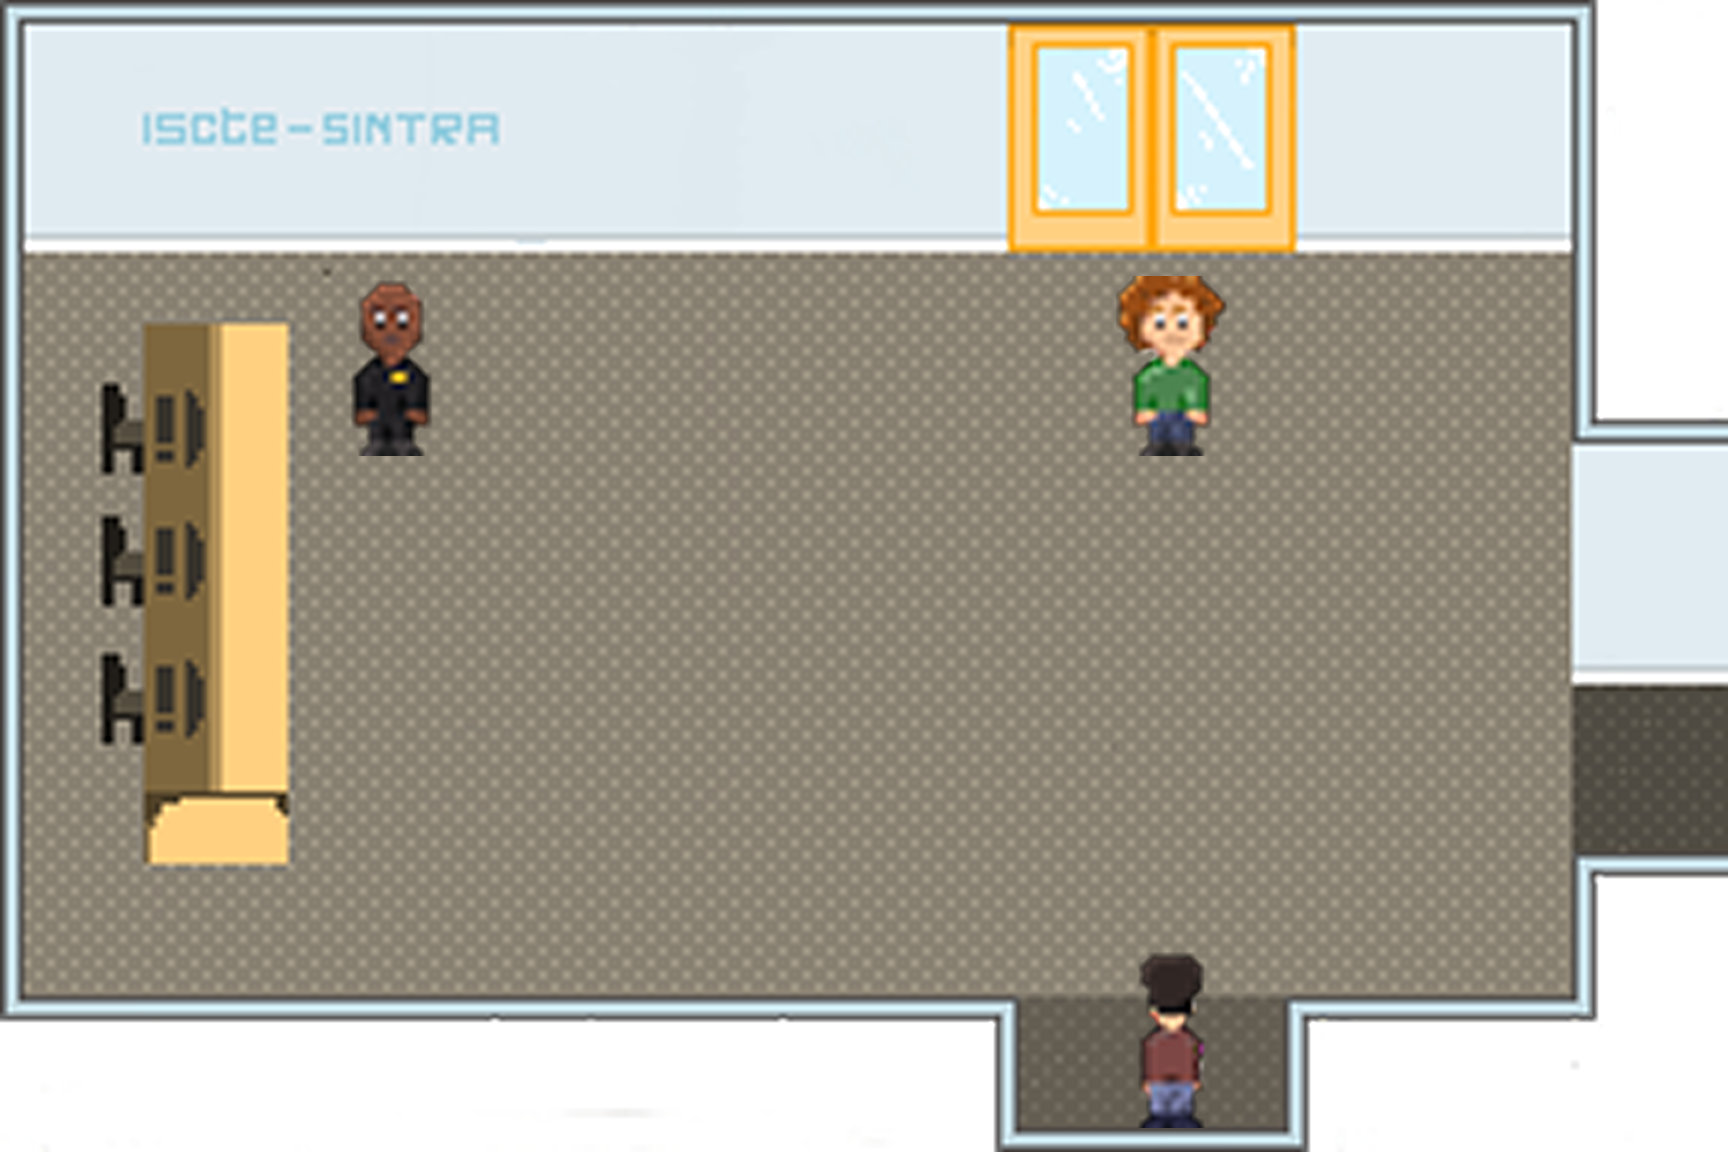
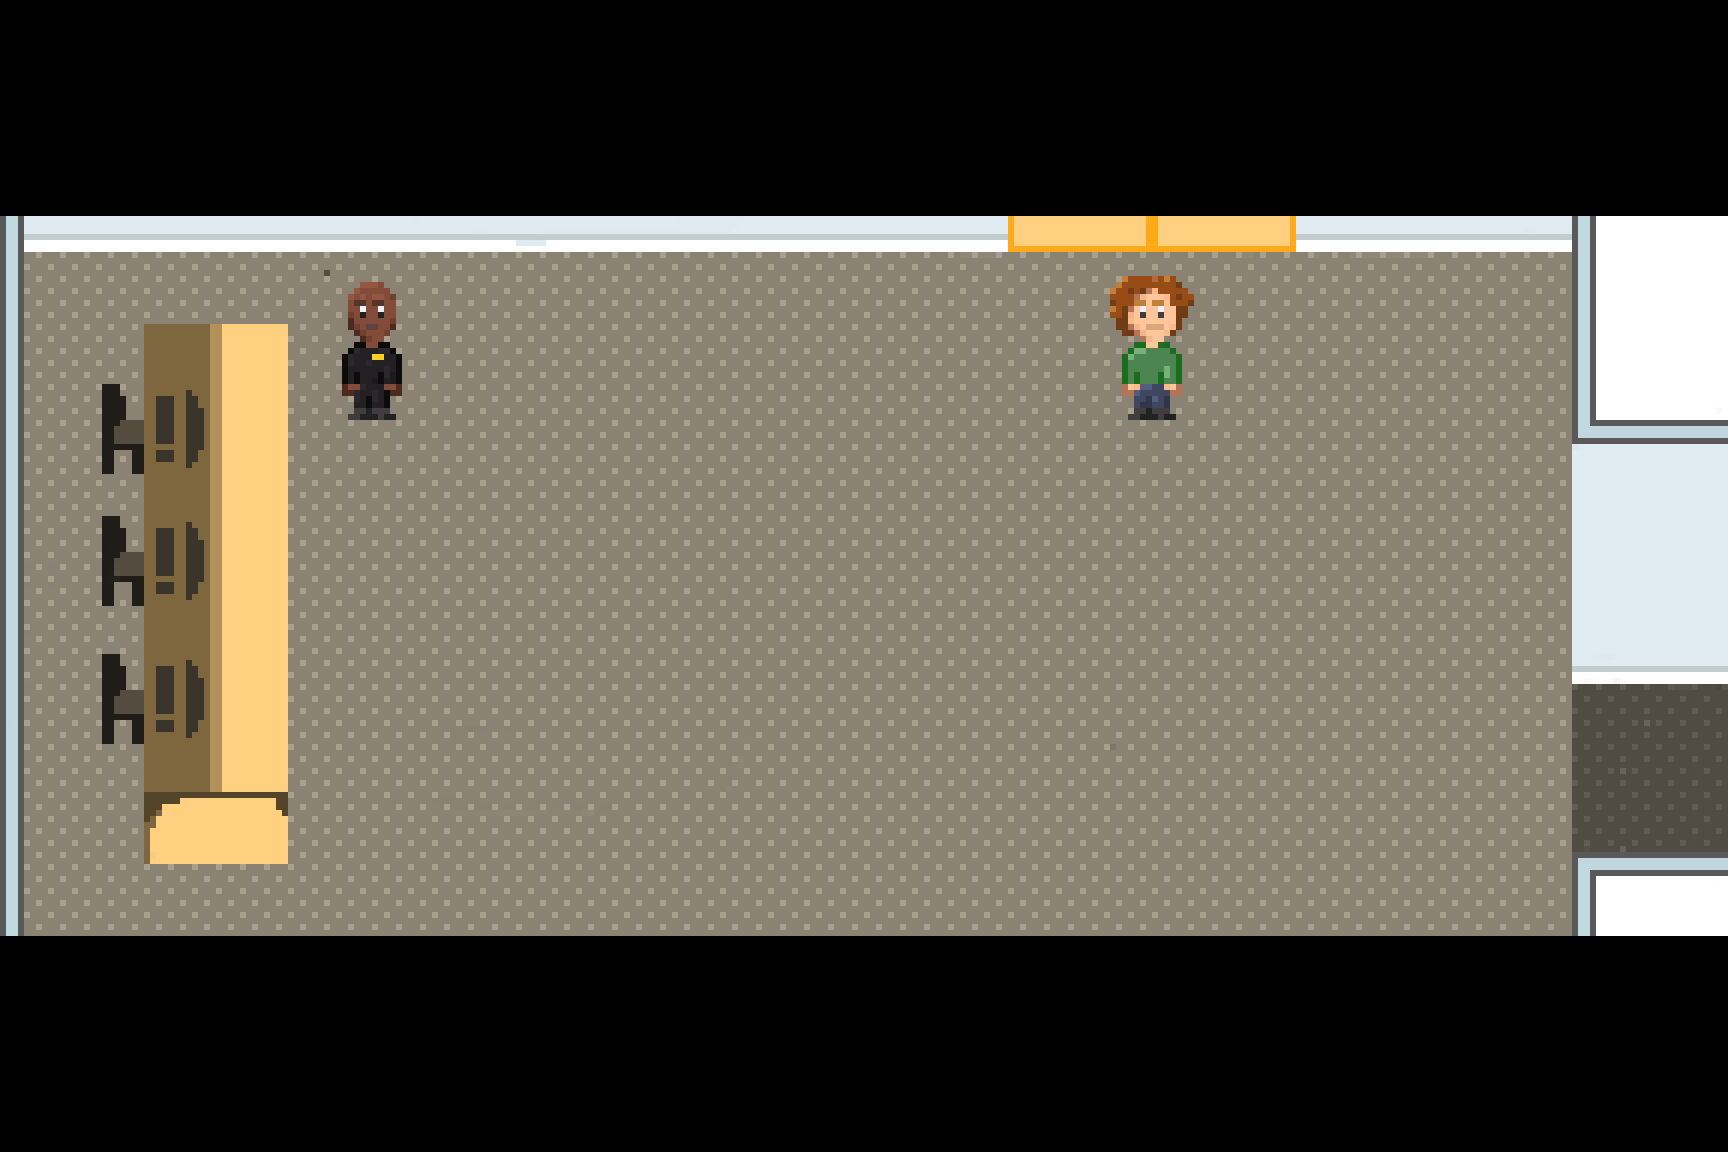
scene 1 working

diff --git a/iscte-sintra-simulator/game/scenes/cut_scene.py b/iscte-sintra-simulator/game/scenes/cut_scene.py
@@ -1,0 +1,113 @@
+import pygame
+import time
+class Frame:
+    def __init__(self, path, speechBubble):
+        self.path = path
+        self.speechBubble = speechBubble
+        
+    def get_image(self):
+        image = pygame.image.load(self.path).convert_alpha()
+        image = pygame.transform.scale(image, (1280,720))
+        return image
+    
+    def get_time(self):
+        if self.speechBubble:
+            return 5
+        else:
+            return 0.3
+        
+        
+        
+        
+class Cutscene:
+    def __init__(self, screen, sceneNumber):
+        self.screen = screen
+        self.sceneNumber = sceneNumber
+        self.current_frame = 0
+        self.images = []
+        
+    def get_images(self):
+        filme1_1 = Frame("iscte-sintra-simulator/assets/images/filmes/filme1/filme1_1.png", False)
+        
+        filme1_2 = Frame("iscte-sintra-simulator/assets/images/filmes/filme1/filme1_2.png", False)
+        
+        filme1_3 = Frame("iscte-sintra-simulator/assets/images/filmes/filme1/filme1_3.png", False)
+        
+        filme1_4 = Frame("iscte-sintra-simulator/assets/images/filmes/filme1/filme1_4.png", False)
+
+        filme1_5 = Frame("iscte-sintra-simulator/assets/images/filmes/filme1/filme1_5.png", False)
+
+        filme1_6 = Frame("iscte-sintra-simulator/assets/images/filmes/filme1/filme1_6.png", False)
+
+        filme1_7 = Frame("iscte-sintra-simulator/assets/images/filmes/filme1/filme1_7.png", True)
+
+        filme1_8 = Frame("iscte-sintra-simulator/assets/images/filmes/filme1/filme1_8.png", True)
+
+        filme1_9 = Frame("iscte-sintra-simulator/assets/images/filmes/filme1/filme1_9.png", True)
+
+        filme1_10 = Frame("iscte-sintra-simulator/assets/images/filmes/filme1/filme1_10.png", False)
+
+        filme1_11 = Frame("iscte-sintra-simulator/assets/images/filmes/filme1/filme1_11.png", False)
+
+        filme1_12 = Frame("iscte-sintra-simulator/assets/images/filmes/filme1/filme1_12.png", False)
+
+        filme1_13 = Frame("iscte-sintra-simulator/assets/images/filmes/filme1/filme1_13.png", False)
+
+        filme1_14 = Frame("iscte-sintra-simulator/assets/images/filmes/filme1/filme1_14.png", False)
+
+        filme1_15 = Frame("iscte-sintra-simulator/assets/images/filmes/filme1/filme1_15.png", False)
+
+        if self.sceneNumber == 1:
+            self.images = [
+                filme1_1,
+                filme1_2,
+                filme1_3,
+                filme1_4,
+                filme1_5,
+                filme1_6,
+                filme1_7,
+                filme1_8,
+                filme1_9,
+                filme1_10,
+                filme1_11,
+                filme1_12,
+                filme1_13,
+                filme1_14,
+                filme1_15
+            ]
+        elif self.sceneNumber == 2:
+            self.images = [
+                
+            ]
+        return self.images
+    
+    def load(self):
+        running = True
+                
+        self.get_images()
+        
+        self.screen.fill((0, 0, 0))
+        
+        while running:
+            for event in pygame.event.get():
+                if event.type == pygame.QUIT:
+                    running = False
+                    
+                if event.type == pygame.KEYDOWN and event.key == pygame.K_SPACE:
+                    if self.sceneNumber == 1:
+                        return "go to entrada"    
+            
+            if self.current_frame < len(self.images):
+                frame = self.images[self.current_frame]
+                
+                self.screen.blit(frame.get_image(), (0,0))
+                pygame.display.flip()
+                
+                pygame.time.wait(int(frame.get_time() * 1000))  # Convert seconds to milliseconds
+
+                self.current_frame += 1 
+                
+            else:
+            
+                if self.sceneNumber == 1:
+                    return "go to entrada - day begin"

diff --git a/iscte-sintra-simulator/game/main.py b/iscte-sintra-simulator/game/main.py
@@ -9,6 +9,7 @@ from minigames.mini_game_1 import Minigame1
 from salaLab import LAB
 from characters.players.player import Player
 from day_manager import DayManager
+from scenes.cut_scene import Cutscene
 
 # Musica
 pygame.mixer.init()
@@ -28,7 +29,6 @@ minigame2 = Minigame2(screen, player1)
 lab = LAB(screen, player1)
 minigame1 = Minigame1(screen, player1)
 day_manager = DayManager(1)
-
 
 mainMenu.load()
 nextCena = day_manager.show_begin_day()
@@ -73,5 +73,9 @@ while True:
         
     elif nextCena == "inicio do dia":
         nextCena = day_manager.show_begin_day()
+    
+    elif nextCena == "play cutscreen 1":
+        cutscene = Cutscene(screen, 1)
+        nextCena = cutscene.load()
         
     else: break

diff --git a/iscte-sintra-simulator/game/day_manager.py b/iscte-sintra-simulator/game/day_manager.py
@@ -120,5 +120,5 @@ class DayManager:
                     print(event.pos)
                     if start_game_rect.collidepoint(event.pos):
                         print("Comecar")
-                        return "go to entrada - day begin"  # Transition to the next scene
+                        return "play cutscreen 1"  # Transition to the next scene
         
